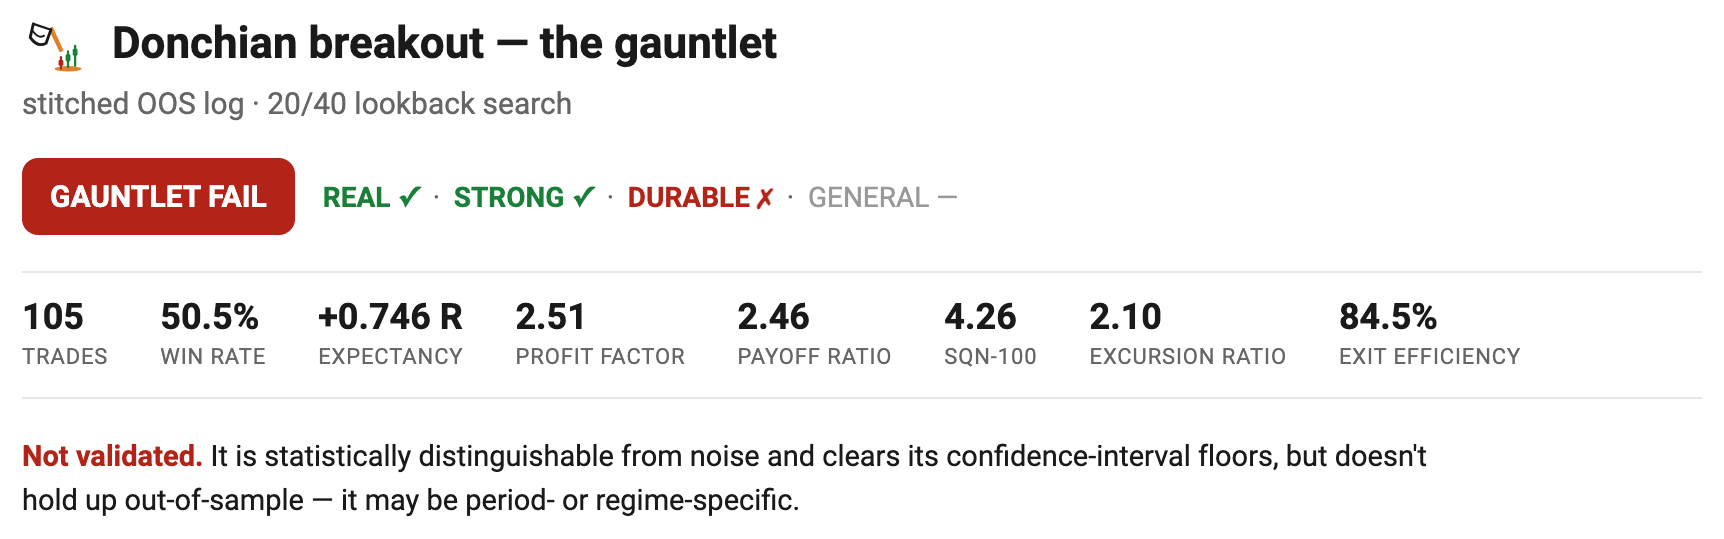
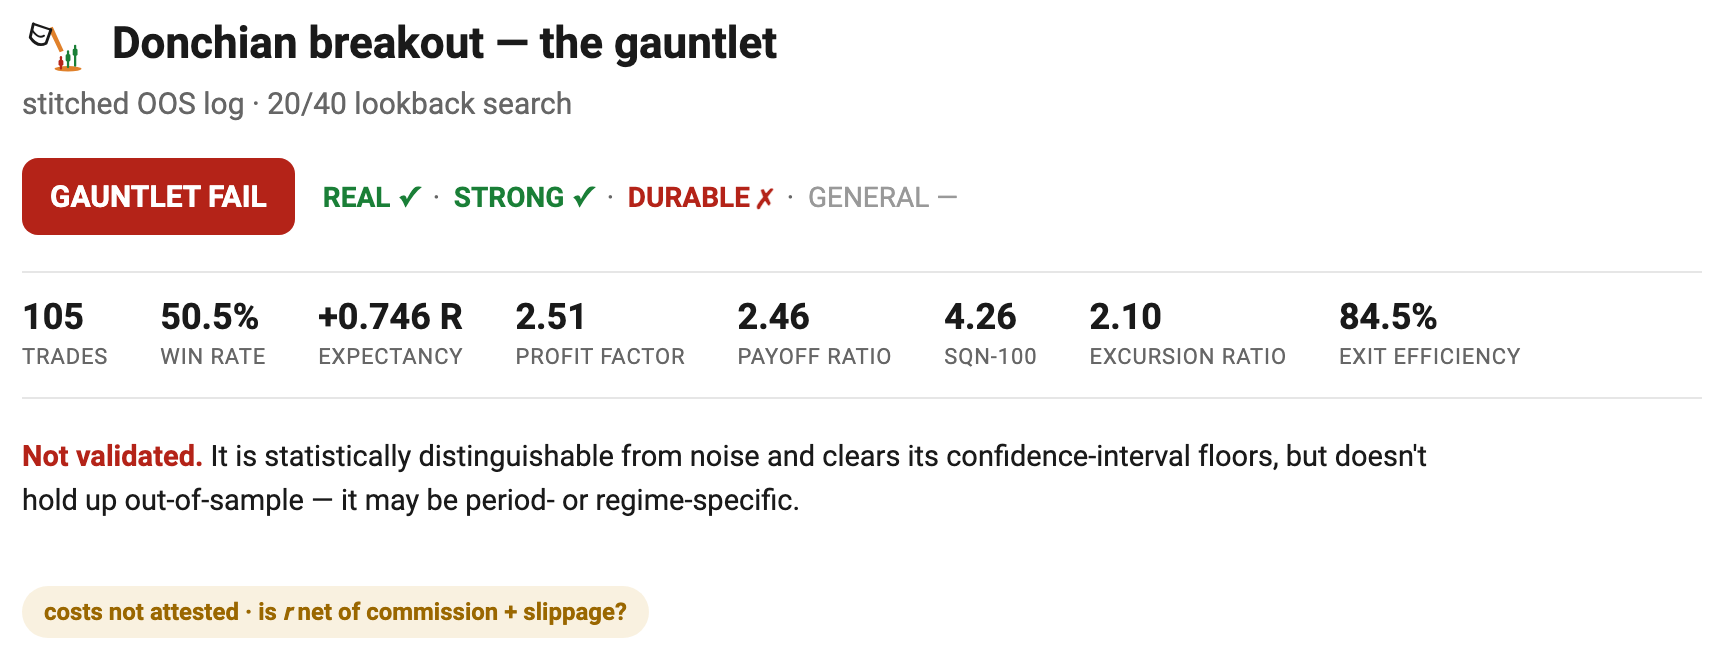
docs+report: worked cost-adjustment example, and a "costs not attested" default (#58)
* report: stamp "costs not attested" when no cost note is supplied

crucible sees only the `r` column, so it cannot tell a net log from a
gross one — both are just numbers. Until now a report with no host note
rendered nothing there, silently implying the returns were net. Given how
often a user carries a backtester log straight to a verdict without
touching costs, that silence defends a phantom edge (the §1 failure mode).

gauntlet_report now defaults that slot to a "costs not attested · is r net
of commission + slippage?" pill. A host that has netted and says so via
header_html (e.g. npf's net/gross badge) suppresses it entirely — that
path is unchanged, since header_html is always non-empty there. Only the
bare log, which is exactly the one at risk, gets nudged.

* docs: worked cost-adjustment example in §1 — gross R to net R

§1 told readers to net costs into `r` but left the how as homework, so
most would skip it. Adds a few-line worked example on what a backtester
already hands you (gross R + the entry/stop that set 1R): a round-turn
cost is a fixed dollar amount, so in R it is $cost / $risk.

Dividing by $risk is the lesson — it turns the flat-haircut shortcut into
a floor. A gold example makes it concrete with one fixed $25 round turn: a
wide 15pt stop nets -11%, a tight 3pt stop -56% — the tighter-stop book,
which looked better gross, loses more than half its edge. That is the
risk-scaled model a full futures cost layer applies per trade (named
[…]

Changed region(s): [[0.0, 0.0297, 0.9838, 0.7718], [0.0, 0.8312, 0.83, 0.9796]]

diff --git a/src/crucible/report/tearsheet.py b/src/crucible/report/tearsheet.py
@@ -829,15 +829,25 @@ def pillar_bullets(gauntlet, *, include_plotlyjs: bool = False) -> str:
                        include_plotlyjs=(True if include_plotlyjs else "cdn"))
 
 
+# Shown under the verdict when the host supplies no cost attestation. crucible sees only
+# the `r` column, so it never assumes the returns are net — it asks.
+_COSTS_NOT_ATTESTED = (
+    "<span style='display:inline-block;padding:4px 11px;border-radius:999px;"
+    "font-size:12px;font-weight:600;background:rgba(210,153,34,0.14);color:var(--cr-warn)'>"
+    "costs not attested · is <i>r</i> net of commission + slippage?</span>"
+)
+
+
 def gauntlet_report(gauntlet, trades: TradeLog, path: Optional[str] = None, *,
                     title: str = "crucible gauntlet", subtitle: Optional[str] = None,
                     appendix_html: str = "", header_html: str = "",
                     n_boot: int = 10_000, seed: int = 0,
                     include_plotlyjs: bool = True, pillar_notes: Optional[dict] = None,
                     period_returns=None, block: int = 6, stationary: bool = False) -> str:
-    """Compose a full gauntlet-organized page: verdict banner → optional
-    ``header_html`` (a host note that sits right under the verdict, e.g. a
-    net/gross badge) → edge panels + metrics → one section per pillar that ran
+    """Compose a full gauntlet-organized page: verdict banner → a cost note that
+    sits right under the verdict (``header_html`` if the host supplies one, e.g. a
+    net/gross badge; otherwise a default ``costs not attested`` nudge, since crucible
+    can't tell a net log from a gross one) → edge panels + metrics → one section per pillar that ran
     (REAL / STRONG / DURABLE / GENERAL; STRONG carries a CI-whisker plot of its
     checks) → an optional host-supplied
     ``appendix_html`` (e.g. capital-aware panels the host owns). ``pillar_notes``
@@ -873,8 +883,11 @@ def gauntlet_report(gauntlet, trades: TradeLog, path: Optional[str] = None, *,
     # Two-column top: interpretation prose (left) + the stats as a card (right); then a
     # rule before the pillar-margin bullets.
     # the host note (net-of-costs badge) sits at the bottom of the left column so the
-    # prose + note balance the taller stats card on the right
-    note = f"<div class='cr-hostnote'>{header_html}</div>" if header_html else ""
+    # prose + note balance the taller stats card on the right. With no host note, crucible
+    # cannot tell a net log from a gross one — both are just an `r` column — so rather than
+    # imply the returns are net it stamps "costs not attested". A host that has netted (and
+    # says so via header_html) suppresses this; a bare log gets nudged to declare costs.
+    note = f"<div class='cr-hostnote'>{header_html or _COSTS_NOT_ATTESTED}</div>"
     top = (f"<div class='cr-top'>"
            f"<div class='cr-top-left'>{summary}{note}</div>"
            f"<div class='cr-top-right'><div class='cr-statcard'>{metrics}</div></div>"

diff --git a/tests/test_report.py b/tests/test_report.py
@@ -236,6 +236,18 @@ def test_gauntlet_report_embeds_block_panel(ohlc):
     assert "Block bootstrap" not in gauntlet_report(g, tl, include_plotlyjs=False)
 
 
+def test_gauntlet_report_stamps_costs_not_attested(ohlc):
+    tl, g = _full_gauntlet(ohlc)
+    # No host note: crucible can't tell net from gross, so it nudges rather than imply net.
+    bare = gauntlet_report(g, tl, include_plotlyjs=False)
+    assert "costs not attested" in bare
+    # A host that attests (e.g. a net/gross badge) suppresses the default entirely.
+    attested = gauntlet_report(g, tl, include_plotlyjs=False,
+                               header_html="<b>NET of transaction costs</b>")
+    assert "NET of transaction costs" in attested
+    assert "costs not attested" not in attested
+
+
 def test_gate_block_shows_verdict_and_checks(ohlc):
     _, g = _full_gauntlet(ohlc)
     by = {gate.name: gate for gate in g.gates}

diff --git a/docs/gen_figures.py b/docs/gen_figures.py
@@ -137,7 +137,7 @@ def report_sheets() -> dict[str, str]:
     from crucible.validation import walk_forward, run_gauntlet, Thresholds
     from crucible.report import (verdict_banner, metrics_table, verdict_summary,
                                  gate_block, cumulative_r, report_css)
-    from crucible.report.tearsheet import _PILLARS, _plotly
+    from crucible.report.tearsheet import _PILLARS, _plotly, _COSTS_NOT_ATTESTED
 
     px = dg.synthetic_prices()
     tp, sl, to = 2.5, 1.0, 30
@@ -147,10 +147,13 @@ def report_sheets() -> dict[str, str]:
                      n_variants=2, thr=Thresholds(n_boot=5000, n_perm=5000, n_random_sims=500))
     trades = wf.stitched
     css = report_css()
+    # the §12 synthetic book carries no costs, so the report's default cost note is
+    # the honest read here — mirror what gauntlet_report() stamps under the verdict
+    note = f"<div class='cr-hostnote'>{_COSTS_NOT_ATTESTED}</div>"
 
     hero = (verdict_banner(g, title="Donchian breakout — the gauntlet",
                            subtitle="stitched OOS log · 20/40 lookback search")
-            + metrics_table(trades) + verdict_summary(g))
+            + metrics_table(trades) + verdict_summary(g) + note)
     by = {x.name: x for x in g.gates}
     gates = "".join(gate_block(by[p]) for p in _PILLARS if p in by)
 
@@ -174,7 +177,7 @@ def report_sheets() -> dict[str, str]:
                              _FakeGate("DURABLE", True), _FakeGate("GENERAL", False)])
     scope = (verdict_banner(scope_g, title="A scope-limited edge",
                             subtitle="core validated · cross-market generalization unproven")
-             + metrics_table(trades) + verdict_summary(scope_g))
+             + metrics_table(trades) + verdict_summary(scope_g) + note)
 
     go, _ = _plotly()
     cr = cumulative_r(trades)

diff --git a/docs/index.md b/docs/index.md
@@ -114,9 +114,37 @@ instrument, more for thin ones) is the floor; without it a **+0.15R expectancy m
 literally just the spread**, and every p-value downstream is defending a phantom edge. The bias
 is worst exactly where it looks best: the same dollar of slippage is a *larger* fraction of a
 tight-stop (small-R) trade, so cost-per-R is highest on the highest-expectancy setups. crucible
-is capital-free but not cost-free — bake the haircut into `r` **upstream**, before the gauntlet
-ever sees the log. (Sizing-dependent frictions — financing, market impact at size — belong to
-the capital layer, §10.)
+is capital-free but not cost-free — net the haircut into `r` before the gauntlet ever sees the
+log. (Sizing-dependent frictions — financing, market impact at size — belong to the capital
+layer, §10.)
+
+The netting is a few lines on what a backtester already hands you per fill — the gross R, and
+the entry and stop that defined 1R. A round turn costs a fixed *dollar* amount, so in R it is
+that dollar cost over the dollars you had at risk:
+
+```python
+cost_usd = commission + 2 * slippage_ticks * tick_value   # round-turn $, e.g. $5 + 2·1·$10 = $25
+risk_usd = abs(entry - stop) * point_value                # the dollars 1R actually risked
+r_net    = r_gross - cost_usd / risk_usd                  # cost in R = $cost / $risk
+```
+
+Dividing by `risk_usd` is the whole point — it is what makes the flat-haircut shortcut above a
+floor, not the truth. Take gold (`$100`/point, `$10`/tick, so the *same* `$25` round turn on
+every trade):
+
+- a **wide** 15-point stop risks `$1,500` → cost `0.017R` → a `+0.15R` edge nets `+0.133R` **(−11%)**
+- a **tight** 3-point stop risks `$300` → cost `0.083R` → the same `+0.15R` edge nets `+0.067R` **(−56%)**
+
+Same instrument, same `$25` — and the tighter-stop book, the one that looked *better* gross,
+loses more than half its edge. A flat `−0.1R` can't see that; charging per dollar-of-risk can,
+which is what a full futures cost layer does per trade (pricing each fill from its own risk and
+the contract's tick/point value, with an extra tick for thin markets), stamping the result on
+the verdict — *"net of 0.06R/trade."*
+
+Because crucible only ever sees the `r` you hand it, it **can't tell a net log from a gross
+one** — so it never assumes. A gauntlet report whose log carries no cost attestation is stamped
+**costs not attested**; a producer that has already netted says so, and crucible repeats the
+claim. Netting stays yours to do — the verdict just refuses to hide whether you did.
 
 The `TradeLog` is deliberately agnostic about *how* the trades were produced. A
 hand-coded moving-average rule, a set of discretionary fills exported from a broker or a